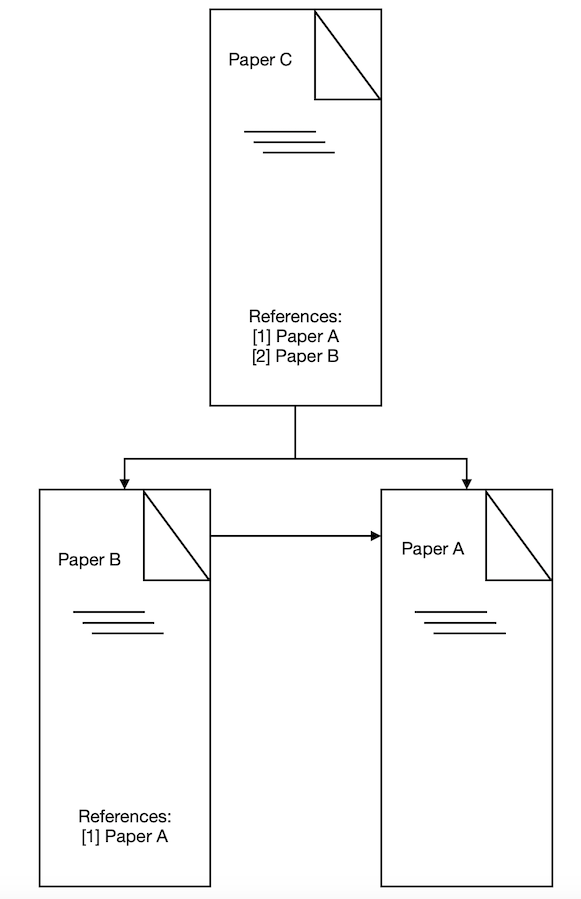
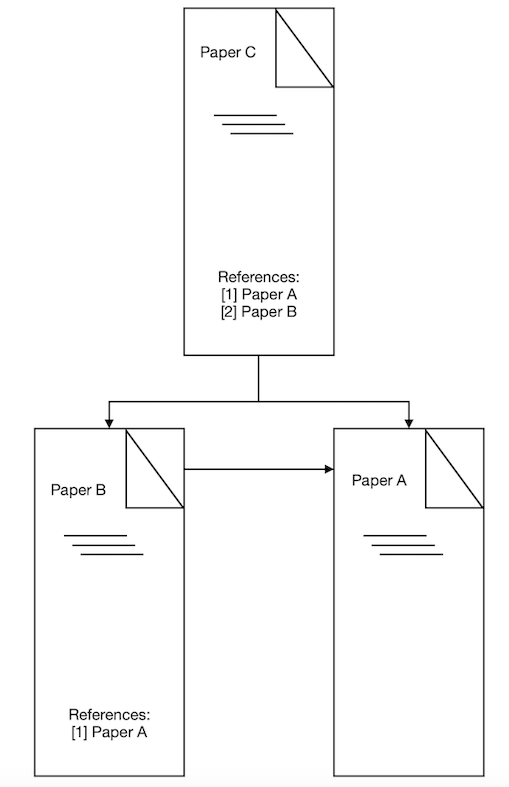
Readme (Closes #9) (PR #30)
* Readme: I have added Contributing Guidelines.

* - I have added .idea to Gitignore.
- I have excluded .idea/runConfigurations from being ignored.

* I have deleted all .idea folders, but not .idea/runConfigurations.

* Readme: I have added the chapters Description, Motivation, Technology, Architecture.

* Readme:
- I have added the mockup.
- I have changed the paths to all images.

* Readme: I have reduced the sizes of all images.

* Readme: I have re-organized the Installation chapter.

* Readme: I have added a build badge.

* Readme: I have added new build badges.

* Readme: I have shortened from the Readme the goals and the architecture.

* Readme: I have corrected typos and improved the format of code blocks.

* Readme: I have improved my instructions on how to create and activate virtualenv..

* Readme: I have removed the graph visualization frameworks ECharts and Chart.js because we are not using them.

* Readme:
- I have added the installation of required dependencies.
- I have marked virtualenv as "recommended".

* Readme: I have replaced the readme with a newer version that fits our backend.

* Readme: Check the frontend (not the Swagger documentation) in the browser to test the frontend implementation.

diff --git a/README.md b/README.md
@@ -1,79 +1,215 @@
-# research-paper-graph
+# Research Paper Graph
+The Research Paper Analyser examines to what extent research work is related to each other, 
+i.e. whether and how often it refers to each other. 
+For example, if paper C is based on papers A and B and paper B is based on paper A, then papers A, B and C are connected. 
 
-## Project Setup
-If you are using IntelliJ/PyCharm Professional, you should simply be able to open the project.
-You will find some useful run configurations as well.
+![./doc/img/img_01.png](./doc/img/img_01.png)
 
-### Backend
-The backend is a Python application with Flask framework.
+## Build Status
+[![Actions Status](https://github.com/Jibbow/research-paper-graph/workflows/.github/workflows/ci-backend.yml/badge.svg)](https://github.com/Jibbow/research-paper-graph/actions)
+[![Actions Status](https://github.com/Jibbow/research-paper-graph/workflows/.github/workflows/ci-frontend.yml/badge.svg)](https://github.com/Jibbow/research-paper-graph/actions)
 
-Some good starting resources are:
- - [The Flask mega tutorial](https://blog.miguelgrinberg.com/post/the-flask-mega-tutorial-part-i-hello-world)
- - [Flask Project Website](https://palletsprojects.com/p/flask/)
+## Motivation
+When we read a paper for our research and are interested in further work on our topic, 
+going through all cited papers to find out which one is important can be a tedious exercise. In our project, we want to facilitate the process by providing a citation graph which will easily give the opportunity to see which papers are similar and hence close to our paper and which are generally most important to the topic by identifying the most central papers in the topic cluster in the graph.
 
-If you don't want to use `virtualenv`, you can install the required dependencies with
+Sometimes we don't come across a special paper, but a whole field of research that interests us. 
+On the one hand, we will ask ourselves which papers are relevant for the respective research area. 
+On the other hand, we want to know into which topics our field can be subdivided.  
+We therefore need an instrument that assigns families of research work to their research topic and their field of research.
+
+When our government discusses a problem, it often involves external professors and asks them for advice. 
+We want to make sure that our government has the best information in order to decide which experts to invite concerning a special topic by seeing how central the professor's papers are within the field of interest. The same holds for universities calling a professor to a chair. Our graph provides multiple additional information which can support their decision making. It also helps to easily identify members of the appointment commission, which have been publishing with a candidate and which are therefore biased. 
+
+## Mockup
+![./doc/img/mockup.gif](./doc/img/mockup.gif)
+
+## Technologies
+- As our database we use PostgreSQL.
+- We implement our scraper in Python and let it access the SemanticScholar Paper API.
+- We build our backend on Flask using Python.
+- We write our frontend in Typescript and React, integrating frameworks for graph visualization.
+
+### PostgreSQL
+PostgreSQL is a free, open source object-relational database management system. 
+It supports SQL language, extensible data types, operators, functions and aggregates as well as the ACID conditions.
+Reliability, robustness, and performance characterize PostgreSQL.
+Link: [https://www.postgresql.org](https://www.postgresql.org)
+
+### Python
+Python is a universal, interpreted, and higher programming language. 
+Because it is both concise and readable, we can easily learn and understand Python. 
+Data is particularly well analysed with Python.
+Link: [https://www.python.org](https://www.python.org) 
+
+### SemanticScholar Paper API
+SemanticScholar stores metainformation about papers, their authors, and their references. 
+We can download this information and access it through an API.
+Link: [https://api.semanticscholar.org](https://api.semanticscholar.org) 
+
+### Flask
+Flask is a Web Application Framework in Python. 
+We use Flask to develop the components of our web application because it helps us integrate existing libraries into our software.
+Extensibility and good documentation characterize Flask. 
+Link: [https://www.palletsprojects.com/p/flask/](https://www.palletsprojects.com/p/flask/)
+
+### TypeScript
+TypeScript is a superset of JavaScript, i.e. it extends JavaScript by features such as, 
+in particular, the optional static typing at the time of compilation. 
+This allows us to , for example, structurally type, infer types, and parameterize types. 
+Link: [https://www.typescriptlang.org](https://www.typescriptlang.org)
+
+### React
+React is a JavaScript-based web framework, i.e. it acts as a basic framework for the output of UI components on websites. 
+In React, we build components hierarchically and represent them as self-defined HTML tags. 
+React is designed for simplicity, performance, and reusability. 
+Link: [https://reactjs.org](https://reactjs.org)
+
+### D3.js
+D3.js (Data Driven Documents) is a JavaScript-based library that allows you to represent structural information as a network in your browser.
+D3.js is based on the web standards SVG, CSS, and HTML5, which makes D3.js not only fast even with large amounts of data, but also future-proof.
+Link: [https://d3js.org](https://d3js.org)
+
+## Installation
+### How to run the Research Analyzer
+#### Step 1: Install all prerequisites
+1. Install Python.
+2. Install pip.
+3. Install npm or yarn.
+4. [Recommended] Install virtualenv.
+5. [Recommended] If you are using IntelliJ, install the [PyLint Plugin](https://plugins.jetbrains.com/plugin/11084-pylint/).
+
+#### Step 2: Start the backend
+1. Navigate to the backend directory: 
+```
+cd backend
+```
+
+2. [Recommended] Create virtualenv: 
+```
+virtualenv venv
+```
+
+3. [Recommended] Activate virtualenv:
+```
+source venv/bin/activate
+```
+
+4. Install Python dependencies
 ```
 pip install -r requirements.txt
 ```
-Overall, it is advisable to use `virtualenv`.
 
-#### Installing new Packages
-When installing new packages, make sure that they appear in the `requirements.txt` file
-
-To update the `requirements.txt` file, run
+5. Run the app: 
 ```
-pip freeze > requirements.txt
+python app.py run
 ```
 
-#### Starting the Backend
-To start the backend on a local machine, navigate to the `backend` directory.
-Next, activate the `virtualenv` as described before.
-Now you can run the backend on [http://localhost:5000](http://localhost:5000) by typing
+6. Check the Swagger documentation in your browser: 
 ```
-flask run
+http://127.0.0.1:5000
 ```
 
-#### Linting
-This project uses `pylint` as a linter. Simply run
+#### Step 3: Start the frontend
+1. Navigate to the frontend directory: 
 ```
-pylint app
+cd frontend
 ```
-in the `backend` folder.
 
-If you are using IntelliJ , it is recommended to install the [PyLint Plugin](https://plugins.jetbrains.com/plugin/11084-pylint/).
+2. Install required frontend dependencies: 
+```
+npm install
+```
+or 
+```
+yarn install
+```
 
+3. Run server file: 
+```
+npm start
+```
+or 
+```
+yarn start
+```
 
-### Frontend
-The frontend is located in the `frontend` folder and is written in TypeScript with React.
+4. Check the frontend in your browser: 
+```
+http://127.0.0.1:3000
+```
 
-Some good staring resources are:
+### How to modify the Research Analyzer
+#### Learn Flask
+ - [The Flask mega tutorial](https://blog.miguelgrinberg.com/post/the-flask-mega-tutorial-part-i-hello-world)
+ - [Flask Project Website](https://palletsprojects.com/p/flask/)
+
+#### Learn TypeScript and React
  - [The TypeScript Handbook](https://www.typescriptlang.org/)
  - [TypeScript Example on React](https://www.typescriptlang.org/play/index.html?jsx=2&esModuleInterop=true&e=196#example/typescript-with-react)
  - [React + TypeScript Cheatsheets](https://github.com/typescript-cheatsheets/react-typescript-cheatsheet#reacttypescript-cheatsheets)
  - [React: Getting Started](https://reactjs.org/docs/getting-started.html)
 
-#### Starting the Frontend
-To build the frontend, make sure you have `npm` or `yarn` installed.
-Change to the `frontend` directory and run
+#### Install new packages
+When installing new packages, make sure that they appear in the `requirements.txt` file.
+To update the `requirements.txt` file, run: 
 ```
-npm install
+pip freeze > requirements.txt
 ```
-and then
-```
-npm start
-```
-Now the frontend should open in your browser.
 
-#### Linting
-The project uses `tslint`. Run `tslint` with
+#### Test the backend
+1. Navigate to the backend directory:
+```
+cd backend
+```
+
+2. Run all backend tests:
+```
+python app.py test
+```
+
+#### Lint
+##### Backend
+The backend uses `pylint`:
+1. Navigate to the backend directory:
+```
+cd backend
+```
+
+2. Run pylint:
+```
+pylint app
+```
+
+##### Frontend
+The project uses `tslint`:
+1. Navigate to the frontend directory: 
+```
+cd frontend
+```
+
+2. Run tslint: 
 ```
 npm run lint
 ```
+or 
+```
+yarn run lint
+```
 
-If you use `yarn`, issue the same commands but with `yarn` instead of `npm`.
+#### Update database migrations
+1. Create a new migration script from the model changes:
+```
+python app.py db migrate --message 'my database migration'
+```
 
+2. Apply the migration script to the database:
+```
+python app.py db upgrade
+```
+
+## Contribute
+If you want to contribute to the research-graph repository, please first read the Contributing Guidelines in the [Contributing](CONTRIBUTING.md) file.
 
 ## License
-
 This project is licensed under the MIT License - see the [LICENSE](./LICENSE) file for details.
-

diff --git a/CONTRIBUTING.md b/CONTRIBUTING.md
@@ -1,0 +1,79 @@
+# Contributing
+When contributing to this repository, please first discuss the change you wish to make via an issue with the owners of this 
+repository before making a change.
+
+Please note we have a code of conduct, please follow it in all your interactions with the project.
+
+## Review process
+A pull request addresses a single issue.
+
+A pull request must be approved by two reviewers.
+
+A pull request is squashed before the merge.
+
+## Naming Conventions: Issues, branches, pull requests, squashed merge commits
+Issues describe project work such as tasks, bugs, and feature requests. 
+Example: Implement task XYZ
+
+The branch name follows the issue name. 
+The automatically generated issue ID is succeeded by the issue name in lowercase letters, with hyphens separating multiple words. 
+Example: #1-implement-task-xyz
+
+The pull request name is the issue name plus the issue id. 
+Example: Implement task XYZ (Issue #1)
+
+The squashed merge commit name is the issue name plus the issue id plus the pull request id. 
+Example: Implement task XYZ (Closes #1) (PR #2)
+
+If a pull request addresses several issues, the pull request name is a summary of the issues plus the issue ids. 
+The squashed merge commit name is a summary of the issues plus the issue ids plus the pull request id. 
+Example pull request: Initial Setup (Issue #1, Issue #2, Issue #3) 
+Example squashed merge commit: Initial Setup (Closes #1, Closes #2, Closes #3) (PR #2)
+
+## Code of Conduct
+### Our Pledge
+In the interest of fostering an open and welcoming environment, we as contributors and maintainers pledge to making 
+participation in our project and our community a harassment-free experience for everyone, regardless of age, body size, 
+disability, ethnicity, gender identity and expression, level of experience, nationality, personal appearance, race, 
+religion, or sexual identity and orientation.
+
+### Our Standards
+Examples of behavior that contributes to creating a positive environment include:
+- Using welcoming and inclusive language
+- Being respectful of differing viewpoints and experiences
+- Gracefully accepting constructive criticism
+- Focusing on what is best for the community
+- Showing empathy towards other community members
+
+Examples of unacceptable behavior by participants include:
+- The use of sexualized language or imagery and unwelcome sexual attention or advances
+- Trolling, insulting/derogatory comments, and personal or political attacks
+- Public or private harassment
+- Publishing others' private information, such as a physical or electronic address, without explicit permission
+- Other conduct which could reasonably be considered inappropriate in a professional setting
+
+### Our Responsibilities
+Project maintainers are responsible for clarifying the standards of acceptable behavior and are expected to take 
+appropriate and fair corrective action in response to any instances of unacceptable behavior.
+
+Project maintainers have the right and responsibility to remove, edit, or reject comments, commits, code, wiki edits, 
+issues, and other contributions that are not aligned to this Code of Conduct, or to ban temporarily or permanently any 
+contributor for other behaviors that they deem inappropriate, threatening, offensive, or harmful.
+
+### Scope
+This Code of Conduct applies both within project spaces and in public spaces when an individual is representing the 
+project or its community. Examples of representing a project or community include using an official project e-mail 
+address, posting via an official social media account, or acting as an appointed representative at an online or offline 
+event. Representation of a project may be further defined and clarified by project maintainers.
+
+### Enforcement
+Instances of abusive, harassing, or otherwise unacceptable behavior may be reported by contacting the project team 
+by creating an issue tagged _code of conduct_.
+All complaints will be reviewed and investigated and will result in a response that is deemed necessary and appropriate 
+to the circumstances. The project team is obligated to maintain confidentiality with regard to the reporter of an 
+incident. Further details of specific enforcement policies may be posted separately.
+
+Project maintainers who do not follow or enforce the Code of Conduct in good faith may face temporary or permanent repercussions as determined by other members of the project's leadership.
+
+### Attribution
+This Code of Conduct is adapted from the Contributor Covenant, version 1.4, available at [http://contributor-covenant.org/version/1/4](http://contributor-covenant.org/version/1/4).
